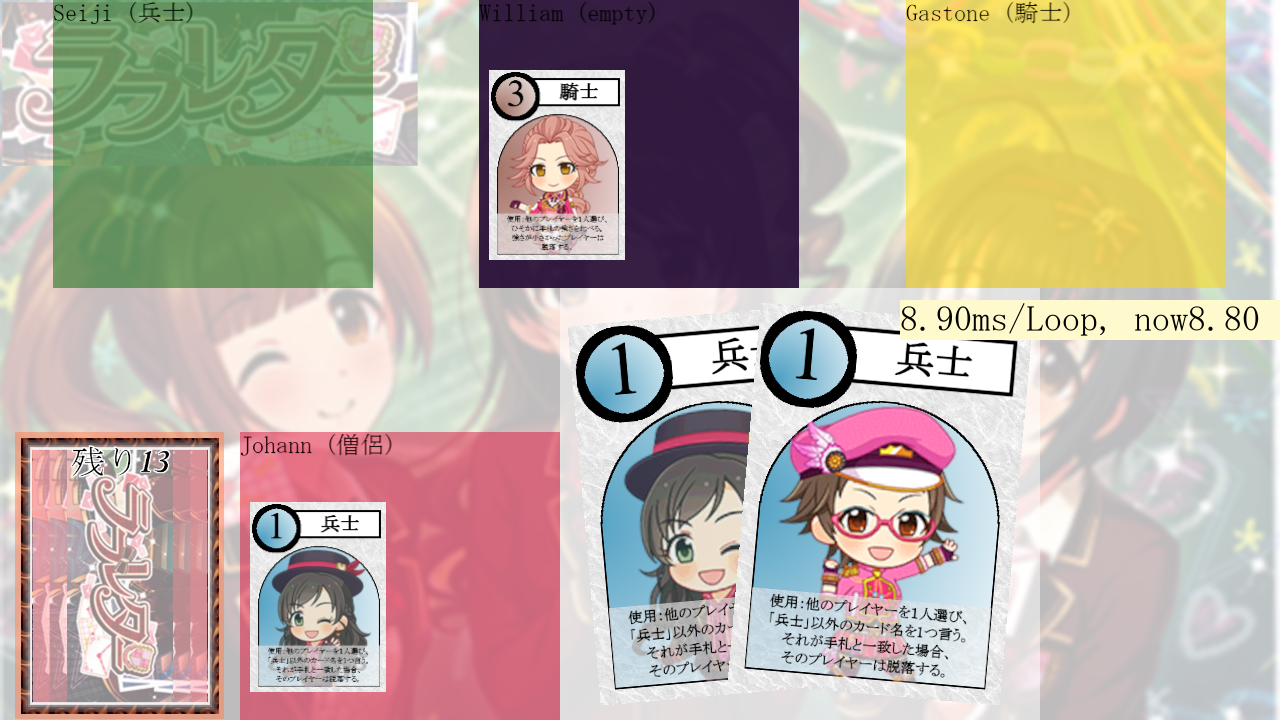
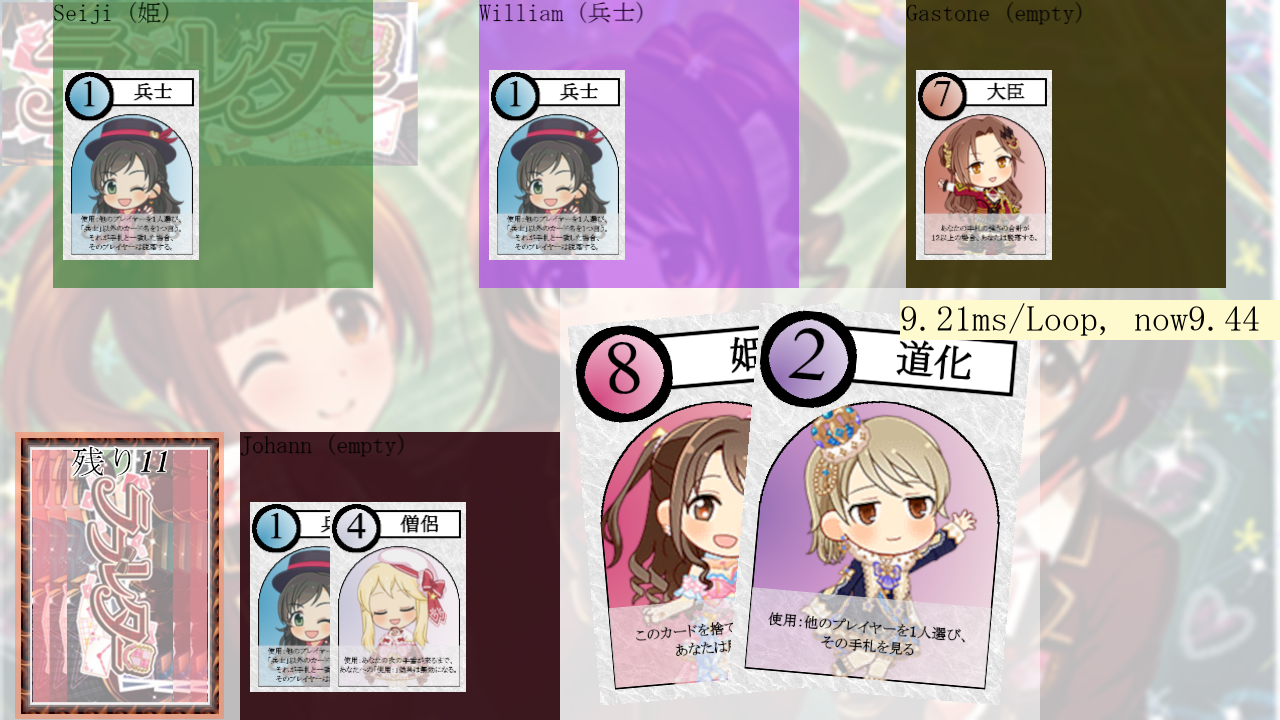
L187:hazure_mvを作成

diff --git a/ll/ctrl/arrests.py b/ll/ctrl/arrests.py
@@ -4,9 +4,10 @@ from any.pictures import IMG_HAZURE
 from model.kard import Kard
 from model.player import Player
 from ptc.bridge import Bridge
+from view.arrest.bind_mv import bind_mv
 from view.arrest.engage_mv import engage_mv
 from view.arrest.face_up_mv import face_up_mv
-from view.arrest.bind_mv import bind_mv
+from view.arrest.hazure_mv import hazure_mv
 
 _Rect = Rect(200, 120, 880, 480)
 _Huda = V2(340, 475)
@@ -28,9 +29,16 @@ class ArrestsController():
             kard=kard,
             img_after=pk.picture() if pk == kard else IMG_HAZURE
         ))
-        self.bridge.whileloop(new_view=bind_mv(
-            bridge=self.bridge,
-            rect=_Rect,
-            kard=kard,
-            img_actor=pk.picture()
-        ))
+        if pk == kard:
+            self.bridge.whileloop(new_view=bind_mv(
+                bridge=self.bridge,
+                rect=_Rect,
+                kard=kard,
+                img_actor=pk.picture()
+            ))
+        else:
+            self.bridge.whileloop(new_view=hazure_mv(
+                bridge=self.bridge,
+                rect=_Rect,
+                kard=kard
+            ))

diff --git a/ll/view/arrest/hazure_mv.py b/ll/view/arrest/hazure_mv.py
@@ -1,0 +1,29 @@
+from pygame import Rect, Vector2 as V2
+
+from any.pictures import IMG_DUEL, IMG_HAZURE
+from any.screen import screen
+from model.kard import Kard
+from ptc.bridge import Bridge
+from view.arrest.img_wanted import img_wanted
+from view.transition.static_transition import StaticTransition
+from view.moves_view import MovesView
+
+def hazure_mv(bridge: Bridge, rect: Rect, kard: Kard) -> MovesView:
+    return MovesView(
+        view=bridge.view,
+        transitions=[StaticTransition(
+            img_actor=IMG_DUEL,
+            center=V2(rect.center),
+            canvas=screen
+        ),
+        StaticTransition(
+            img_actor=img_wanted(kard=kard),
+            center=V2(rect.topleft)+V2(170, 240),
+            canvas=screen
+        ),
+        StaticTransition(
+            img_actor=IMG_HAZURE,
+            center=V2(rect.topright)+V2(-170, 240),
+            canvas=screen
+        )]
+    )

diff --git a/ll/view/arrest/bind_transition.py b/ll/view/arrest/bind_transition.py
@@ -28,7 +28,9 @@ class BindTransition():
         img = self.img_actor.copy()
         params: list[tuple[Surface, V2, V2]] = [
             (IMG_CHAIN_L, -_CV2, V2()),
-            (IMG_CHAIN_R, V2(_CV2.x, -_CV2.y), V2())
+            (IMG_CHAIN_R, V2(_CV2.x, -_CV2.y), V2()),
+            (IMG_CHAIN_L, -_CV2+V2(0, 475-_CV2.y), V2(0, 475-_CV2.y)),
+            (IMG_CHAIN_R, V2(_CV2.x, -_CV2.y)+V2(0, 475-_CV2.y), V2(0, 475-_CV2.y)),
         ]
         for source, from_v2, to_v2 in params:
             img.blit(
